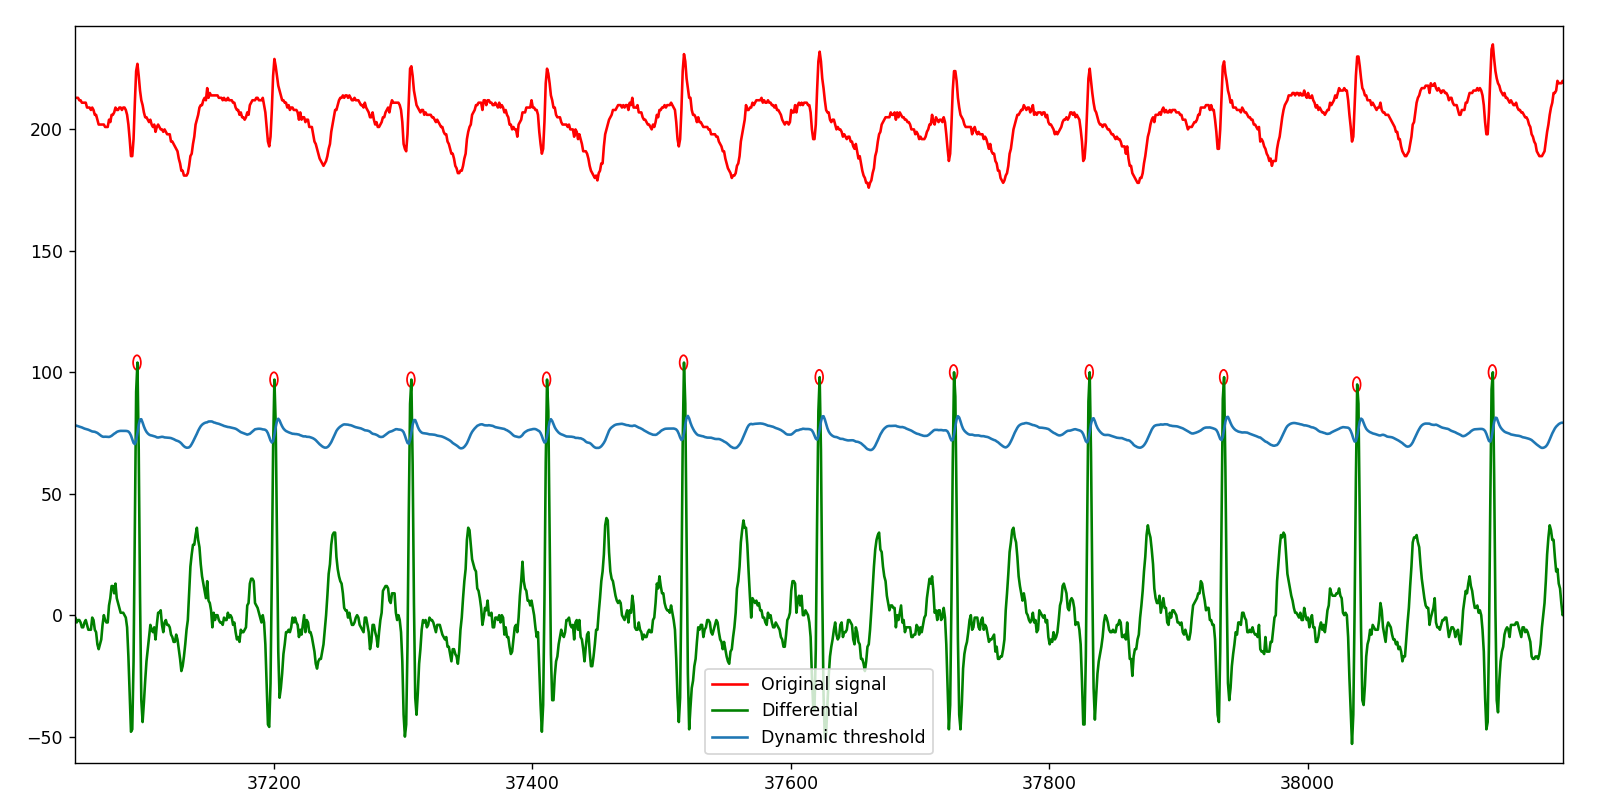
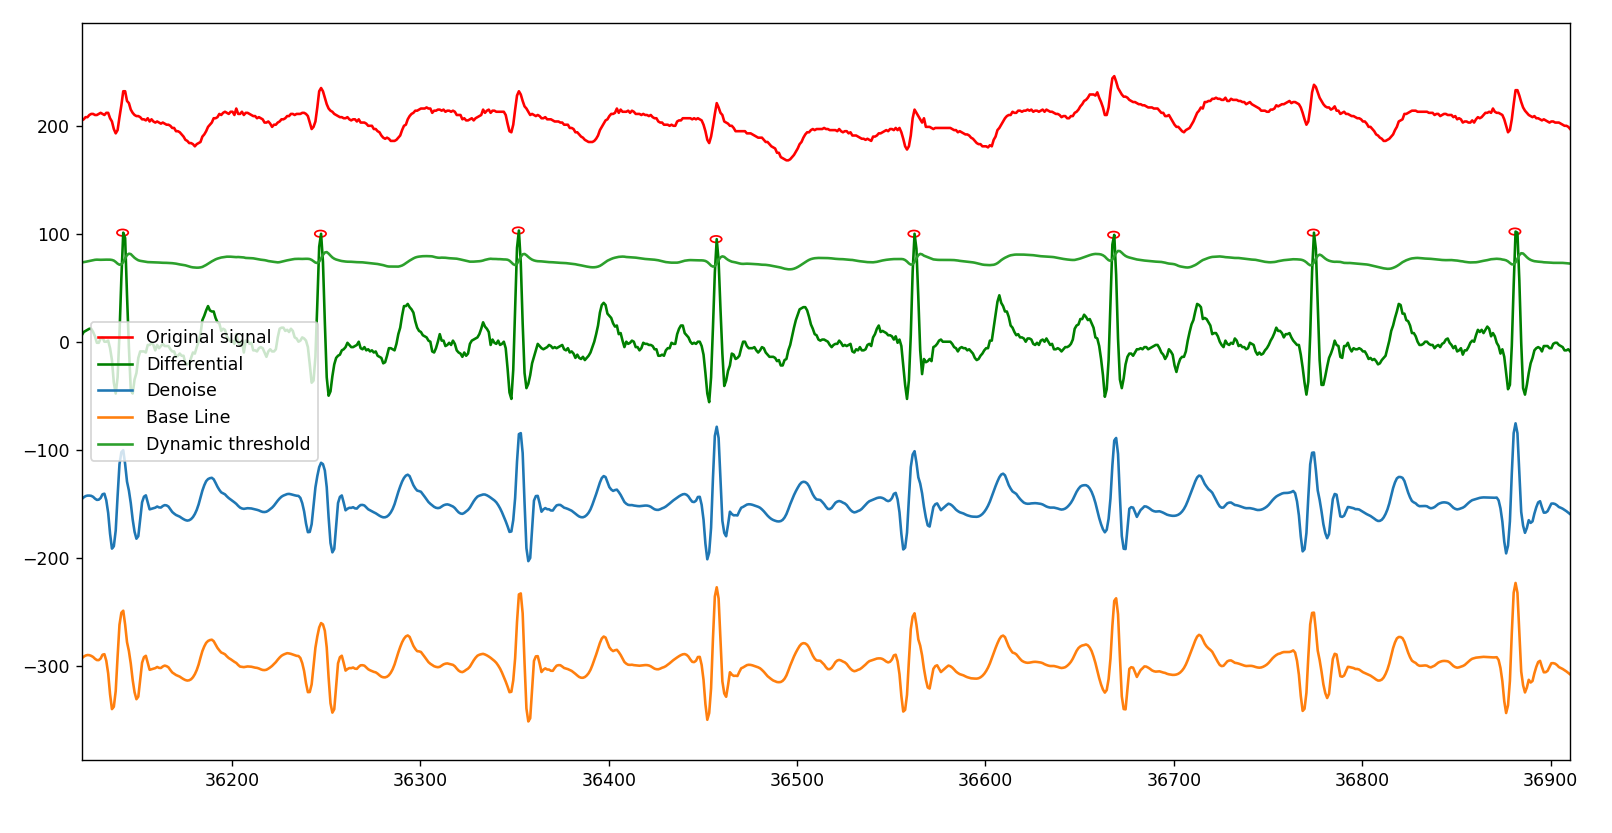
update README and img

Changed region(s): [[0.0, 0.0, 0.9938, 0.9877], [0.6211, 0.2778, 0.6522, 0.3086], [0.2795, 0.1852, 0.3106, 0.216]]

diff --git a/hrv_lib.py b/hrv_lib.py
@@ -7,8 +7,8 @@ from scipy.integrate import trapz
 from scipy import signal
 
 
-# 微分
 def Differential(data):
+    # 微分
     d = np.arange(data.size)
     for i in range(2, data.size-2):
         # So and Chan algorithm
@@ -16,10 +16,9 @@ def Differential(data):
         d = np.convolve(data, np.array([2, 1, 0, -1, -2]))
     return d
 
-# 小波
-
 
 def Denoise(data):
+    # 小波
     coeffs = pywt.wavedec(data=data, wavelet='db5', level=9)
     cA9, cD9, cD8, cD7, cD6, cD5, cD4, cD3, cD2, cD1 = coeffs
 
@@ -35,19 +34,17 @@ def Denoise(data):
     rdata = pywt.waverec(coeffs=coeffs, wavelet='db5')
     return rdata
 
-# 去除基線飄移
-
 
 def BaseLine(data):
+    # 去除基線飄移
     filter = int(0.8*180)
     baseline = medfilt(data, filter+1)
     filter_data = data-baseline
     return filter_data
 
-# 動態閥值
-
 
 def DynamicThreshold(data):
+    # 動態閥值
     moving_line = np.arange(float(data.size+1))
     temp = 0.0
     i = 0
@@ -56,15 +53,21 @@ def DynamicThreshold(data):
     return moving_line
 
 
-def Plot(ori_data, diff_data, denoise_data, base_line, moving_line, r_pick, r_high):
-    x = np.linspace(0, ori_data.size, ori_data.size)
+def PlotTimeDomain(ori_data, diff_data, denoise_data, base_line, dynamic_line, r_pick, r_high):
+    ori_x = np.linspace(0, ori_data.size, ori_data.size)
     diff_x = np.linspace(0, diff_data.size, diff_data.size)
-    x3 = np.linspace(0, moving_line.size, moving_line.size)
+    denoise_x = np.linspace(0, denoise_data.size, denoise_data.size)
+    base_x = np.linspace(0, base_line.size, base_line.size)
+    dynamic_x = np.linspace(0, dynamic_line.size, dynamic_line.size)
 
     fig, ax = plt.subplots()
-    plt.plot(x, ori_data, "r", label="Original signal")
+    plt.plot(ori_x, ori_data, "r", label="Original signal")
     plt.plot(diff_x, diff_data, "g", label="Differential")
-    plt.plot(x3, moving_line, markerfacecolor="#51A6D8",
+    plt.plot(denoise_x, denoise_data-150,
+             markerfacecolor='#623CEA', label="Denoise")
+    plt.plot(base_x, base_line-300,
+             markerfacecolor='#FFFD98', label="Base Line")
+    plt.plot(dynamic_x, dynamic_line, markerfacecolor="#51A6D8",
              label="Dynamic threshold")
 
     i = 1
@@ -104,7 +107,7 @@ def PickRPoint(data, moving_line):
     return r_position, r_high
 
 
-def CalHeartRate(r_position, sample_rate):
+def CalRRInterval(r_position, sample_rate):
     rr_interval = []
     for i in range(2, r_position.size):
         rr_interval.append(r_position[i]-r_position[i-1])
@@ -145,10 +148,9 @@ def Interpolation(rr_interval):
 
     return rr_interpolated
 
-# ref:https://www.kaggle.com/stetelepta/exploring-heart-rate-variability-using-python
-
 
 def FrequencyDomain(rr_interpolated, fs=4):
+    # ref:https://www.kaggle.com/stetelepta/exploring-heart-rate-variability-using-python
     # Estimate the spectral density using Welch's method
     fxx, pxx = signal.welch(x=rr_interpolated, fs=fs)
 

diff --git a/hrv.py b/hrv.py
@@ -1,32 +1,28 @@
-import hrv_lib as hrv 
+import hrv_lib as hrv
 import numpy as np
 
 # 讀取檔案
+
+
 def ImportData(path):
-    np_data = np.loadtxt(path)    
+    np_data = np.loadtxt(path)
     return np_data
+
 
 if __name__ == '__main__':
     data = ImportData("180hz_10minute__15frequency_breath.txt")
     diff_data = hrv.Differential(data)
     denoise_data = hrv.Denoise(diff_data)
     baseline_data = hrv.BaseLine(denoise_data)
-    moving_line = hrv.DynamicThreshold(diff_data)
+    dynamic_line = hrv.DynamicThreshold(diff_data)
 
-    r_pick,r_high = hrv.PickRPoint(diff_data,moving_line)
+    r_pick, r_high = hrv.PickRPoint(diff_data, dynamic_line)
     r_pick = np.array(r_pick)
     r_high = np.array(r_high)
-    hrv.Plot(data,diff_data,denoise_data,baseline_data,moving_line,r_pick,r_high)
-    rr_interval = hrv.CalHeartRate(r_pick,180)
+    hrv.PlotTimeDomain(data, diff_data, denoise_data,
+                       baseline_data, dynamic_line, r_pick, r_high)
+    rr_interval = hrv.CalRRInterval(r_pick, 180)
     print(rr_interval)
 
     rr_interpolated = hrv.Interpolation(rr_interval)
     results, fxx, pxx = hrv.FrequencyDomain(rr_interpolated)
-
-
-
-
-
-
-
-

diff --git a/README.md b/README.md
@@ -1,1 +1,60 @@
-# HRV_python
+<p align=center>
+<img target = "banner" src="https://raw.githubusercontent.com/LowSugarCoke/HRV_python/main/img/frequency_domain.PNG">
+</p>
+
+<p align=center>
+<a target="badge" href="https://github.com/LowSugarCoke/Pixiv-Downloader/blob/main/img/banner.png" title="python version"><img src="https://img.shields.io/badge/python-v3.9.7-brightgreen"></a>
+<a target="badge" href="https://github.com/LowSugarCoke/RPG-Game" title="visual studio version" title="os:windows"><img src="https://img.shields.io/badge/Windows-0078D6?style=for-the-badge&logo=windows&logoColor=white" width=85/></a>  
+</p>
+
+>Heart rate variability (HRV) is the physiological phenomenon of variation in the time interval between heartbeats. It is measured by the variation in the beat-to-beat interval.
+
+## Download source code
+In order to use hrv analysis, make sure that you have python 3.9.7 and python packages as below:
+* numpy 1.21.4
+* matplotlib 3.5.0
+* PyWavelets 1.2.0
+* scipy 1.7.3
+
+```
+$ git clone https://github.com/LowSugarCoke/HRV_python
+```
+
+## Usage
+### Visual Studio Code
+Download VSCode https://code.visualstudio.com/
+
+Download python https://www.python.org/
+
+After installing VScode and Python, download the extension in VSCode as follow:
+* python
+* python for vscode
+* code runner
+
+Done it and Run code
+
+## Introduction
+### Time-Domain Processing
+```flow
+  start=>start: Import ecg data
+  differential=>operation: Differential
+  denoise=>operation: Denoise
+  baseline=>operation: BaseLine
+  pickrpoint=>operation: Pick R Point
+  end=>end: Plot time-domain signal
+  start->differential->denoise->baseline->pickrpoint->end
+```
+
+![img](https://raw.githubusercontent.com/LowSugarCoke/HRV_python/main/img/time_domain.PNG)
+
+### Frequency-Domain Processing
+```flow
+  start=>start: Import differential ecg and dynamic line
+  rr_interval=>operation: Calculate RR interval
+  interpolation=>operation: Interpolation
+  frequency=>operation: Transfer to Frequency Domain 
+  end=>end: Plot frequency-domain signal
+  start->rr_interval->interpolation->frequency->end
+```
+![img](https://raw.githubusercontent.com/LowSugarCoke/HRV_python/main/img/interpolated.PNG)
+![img](https://raw.githubusercontent.com/LowSugarCoke/HRV_python/main/img/frequency_domain.PNG)
